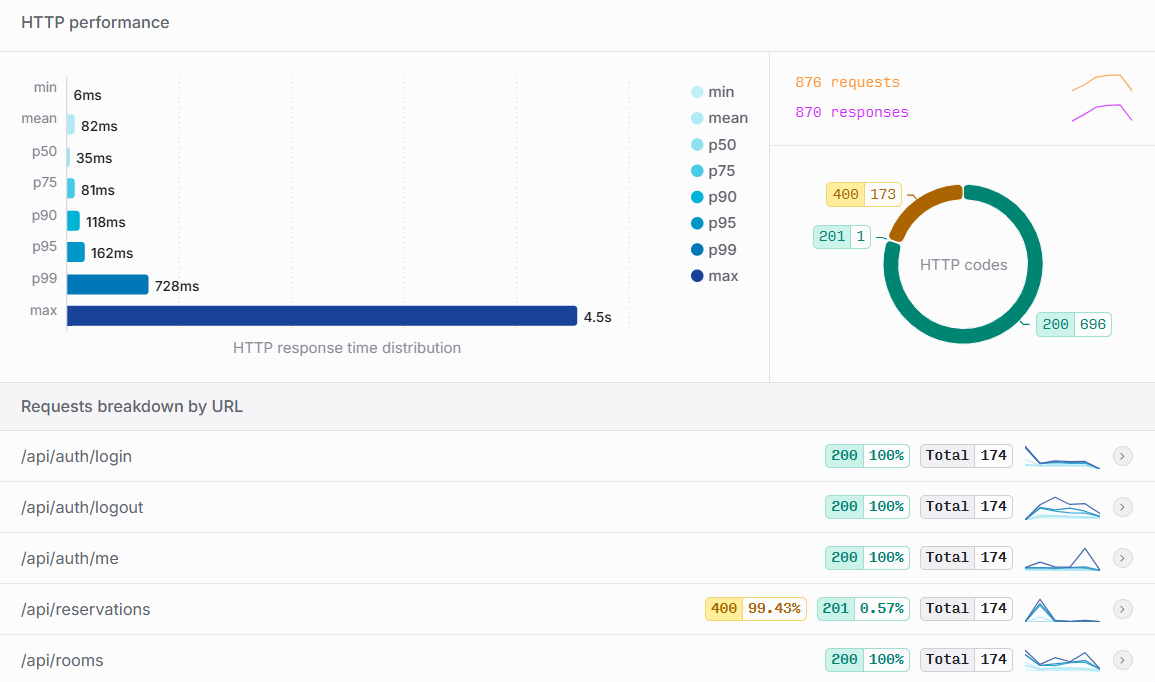
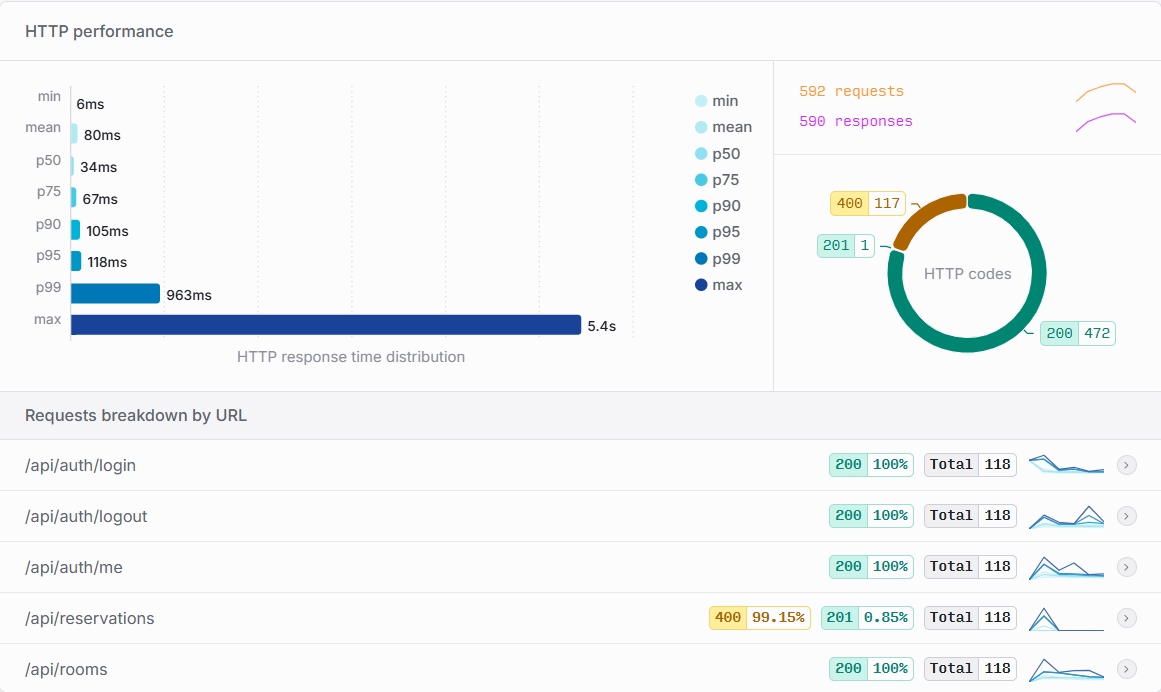
Finished phase 1 of teh second FDP
I have updated the documentation with also an extra test for artillery with more endpoints.

diff --git a/backend/src/test/artillery/processor.js b/backend/src/test/artillery/processor.js
@@ -17,9 +17,14 @@ const testEndDate = `${year}-${month}-${day}T12:00:00.000+02:00`;
 
 module.exports = {
   setupDates: function(context, events, done) {
-    //dinamic dates for artillery
+    //dinamic dates for artillery on JSON format
     context.vars.dynamicStartDate = testStartDate;
     context.vars.dynamicEndDate = testEndDate;
+    
+    //dinamic dates for artilleryfor URL encoding
+    context.vars.encodedStartDate = encodeURIComponent(testStartDate);
+    context.vars.encodedEndDate = encodeURIComponent(testEndDate);
+
     if (context.vars.email) {
       context.vars.email = context.vars.email.trim();
     }

diff --git a/docs/artillery.md b/docs/artillery.md
@@ -70,28 +70,69 @@ Esta prueba establece una línea base atacando directamente a una única instanc
 
 - Conclusiones de la prueba: La aplicación maneja correctamente la concurrencia a nivel de base de datos, permitiendo solo una reserva exitosa y rechazando las demás. Sin embargo, el tiempo de respuesta p95 de 433ms indica que bajo esta carga, la aplicación puede experimentar cierta latencia, lo que sugiere que la arquitectura monolítica sin balanceo de carga puede no ser óptima para manejar cargas más altas.
 
-### Fase 1(load-test-phase-1): Prueba de carga y concurrencia local sostenida en arquitectura distribuida (con balanceador de carga)
+### Fase 1A(load-test-phase-1): Prueba de carga y concurrencia local sostenida en arquitectura distribuida (con balanceador de carga)
 
 Esta prueba evalúa la aplicación contenerizada completa (el docker-compose-dev.yml para desarrollo), atacando al balanceador de carga HAProxy (https://localhost/api) que funciona con un Round Robin gestionando las 3 replicas de la aplicación.
 
 - Configuración de carga:
   - Fase de calentamiento (Warm up): 15 segundos a 2 UVs/seg.
 
-  - Fase de carga sostenida: 30 segundos a 5 UVs/seg.
+  - Fase de carga sostenida: 30 segundos a 3 UVs/seg(se tuvo que bajar de 5UV/seg a 3UV/seg debido a que si no la CPU no daba a basto a tantas peticiones y algunas fallarian por ETIMEDOUT, y aun a pesar de este ajuste solo los test iniciales que se realizan estan libres de ETIMEDOUT por lo que esta es la cifra limite de aforo para la aplicación en local).
 
-  - Total generado: 180 Usuarios.
+  - Total generado: 120 Usuarios.
 
 - Algoritmo de Balanceo: Dynamic Round Robin.
 
-- Resultados Esperados: El sistema debe distribuir la carga entre las 3 réplicas del backend, manteniendo tiempos de respuesta razonables. De las 180 peticiones concurrentes para reservar la misma sala, se espera obtener exactamente un código HTTP 201 (reserva exitosa) y 179 códigos HTTP 400 (rechazo por concurrencia), demostrando que el bloqueo de la base de datos sigue funcionando correctamente incluso bajo una carga más alta y distribuida.
+- Resultados Esperados: El sistema debe distribuir la carga entre las 3 réplicas del backend, manteniendo tiempos de respuesta razonables. De las 120 peticiones concurrentes para reservar la misma sala, se espera obtener exactamente un código HTTP 201 (reserva exitosa) y 119 códigos HTTP 400 (rechazo por concurrencia), demostrando que el bloqueo de la base de datos sigue funcionando correctamente incluso bajo una carga más alta y distribuida.
 
 - Resultados de ejecución:
-  - Completados: 174 UVs completados con éxito. Hubo 6 fallos menores por ETIMEDOUT (3.3%), algo esperado al saturar la red interna de Docker en localhost y no disponer de más recursos para estos 6 usuarios.
-  - Tiempos de respuesta: Mediana (p50) de 35ms y un p95 de 162ms.
+  - Completados: 118 UVs completados con éxito. Hubo 2 fallos menores por ETIMEDOUT (1.67%), algo esperado al saturar la red interna de Docker en localhost y no disponer de más recursos para estos 2 usuarios mostrando que el umbral tolerable para mi aplicación esta en 3 usuarios por segundo ya que pruebas más alla de eso generan muchos más usuarios con errores ETIMEDOUT y con 3 usuarios por segundo el primer test que se corre de artillery es capaz de pasar completamente limpio y al segundo ya comienzan a aparecer errores de ETIMEDOUT.
+  - Tiempos de respuesta: Mediana (p50) de 34ms y un p95 de 105ms.
 
   - Captura de pantalla de Artillery Cloud de este test:
 
-    ![Captura resultados test 1 de artillery](../images/screenshots-artillery/load-test-phase-1.png)
+    ![Captura resultados test 1A de artillery](../images/screenshots-artillery/load-test-phase-1.png)
+    [Enlace al reporte completo en Artillery Cloud](https://app.artillery.io/opmgtbvasi7hy/load-tests/tdqza_e6dxacbw3rc3bka5p7bjckrdg5dy7_3emn)
+
+  - Captura de pantalla de Artillery Cloud de este test con mas usuarios por segundo para mostrar la diferencia y el aforo limite de la aplicación en local para este test:
+
+    ![Captura resultados test 1A de artillery](../images/screenshots-artillery/load-test-phase-1A-primero.png)
     [Enlace al reporte completo en Artillery Cloud](https://app.artillery.io/opmgtbvasi7hy/load-tests/tyttk_hcf64ykt5a67dhz9y7r56xk89c8cw_9j6b)
 
-- Conclusiones de la prueba: A pesar de inyectar más del triple de usuarios virtuales que en la Fase 0, la arquitectura distribuida redujo el tiempo de respuesta p95 de 433ms a 162ms. Nuevamente, la regla de concurrencia se mantuvo sólida: 1 única reserva exitosa (HTTP 201) y 173 rechazos controlados (HTTP 400).
+- Conclusiones de la prueba: A pesar de inyectar más del doble de usuarios virtuales que en la Fase 0, la arquitectura distribuida redujo el tiempo de respuesta p95 de 433ms a 162ms. Nuevamente, la regla de concurrencia se mantuvo sólida: 1 única reserva exitosa (HTTP 201) y 117 rechazos controlados (HTTP 400).
+
+### Fase 1B(load-test-phase-1-heavy): Prueba de carga de procesamiento intensivo en entorno local
+
+Tras validar la concurrencia y el limite de usuarios por segundo en local en mi máquina en la prueba anterior(1A), esta prueba busca estresar la CPU y la base de datos mediante endpoints que requieren cálculos complejos, búsquedas avanzadas y agregaciones de datos.
+Con el fin de evaluar el rendimiento de la arquitectura ante lógica de negocio costosa aprovechando propiedades de la aplicación como:
+
+- Hibernate Search: Búsquedas difusas (fuzzy search) y full-text.
+
+- Cálculos geográficos: Uso de la fórmula de Haversine para distancias entre campus.
+
+- Generación de mapas de calor: Procesamiento iterativo de calendarios y disponibilidad.
+
+- Estadísticas dinámicas: Agregaciones en tiempo real de la ocupación.
+
+- Configuración de carga:
+  - Fase de calentamiento: 15 segundos a 2 UV/seg.
+
+  - Fase de carga sostenida: 30 segundos a 2 UV/seg(se tuvo que bajar de 3UV/seg a 2UV/seg debido a que si no la CPU no daba a basto a tantas peticiones).
+
+  - Total generado: 90 Usuarios (flujo completo de 6 peticiones pesadas por usuario).
+
+- Algoritmo de Balanceo: Dynamic Round Robin.
+
+- Resultados Esperados: El sistema debe gestionar la carga de procesamiento intensivo sin degradar significativamente los tiempos de respuesta. Se espera que el sistema mantenga,aunque sean superiores, unos tiempos de respuesta razonables no muy distantes a los obtenidos en la prueba 1A, demostrando que la arquitectura puede manejar operaciones complejas incluso bajo carga.
+
+- Resultados de ejecución:
+  - Completados: 90 UVs (100% de éxito).
+
+  - Tiempos de respuesta: Mediana (p50) de 34ms y un p95 de 116ms. A pesar de la complejidad de los cálculos (Smart Search y Calendar), la distribución en 3 réplicas permite mantener latencias por debajo de los 100ms para el 95% de los usuarios.
+
+  - Captura de pantalla de Artillery Cloud de este test:
+
+    ![Captura resultados test 1B de artillery](../images/screenshots-artillery/load-test-phase-1-heavy.png)
+    [Enlace al reporte completo en Artillery Cloud](https://app.artillery.io/opmgtbvasi7hy/load-tests/txe97_jxk3jxxjr8ht4q6cnf43xggqewz7p_t448)
+
+Conclusiones de la prueba: La aplicación demuestra una alta capacidad de cómputo en local manteniendo unos tiempos de respuesta razonables para los procesos que se le piden, a pesar de las limitaciones del hardware sobre el que se ejecutan las pruebas, ante consultas bastante estresantes debido a la cantidad de computo que llevan.

diff --git a/docs/executionInstructions.md b/docs/executionInstructions.md
@@ -162,7 +162,7 @@ Levanta la infraestructura E2E (Base de datos de pruebas H2 y MailHog):
 docker-compose -f docker-compose.e2e.yml up -d
 ```
 
-> Si vas a ejecutar la prueba de carga de la fase 1 esta se realiza directamente sobre el docker-compose de desarrollo, no sobre el e2e, ya que prueba que el balanceador de carga funcione correctamente. Para ello deberá ejecutar:
+> Si vas a ejecutar la prueba de carga de la fase 1 (tanto la 1 como la 1-heavy) esta se realiza directamente sobre el docker-compose de desarrollo, no sobre el e2e, ya que prueba que el balanceador de carga funcione correctamente. Para ello deberá ejecutar:
 >
 > ```bash
 > docker-compose -f docker-compose-dev.yml up -d --build